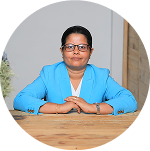
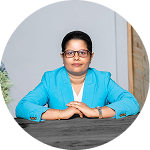
bug fix home page

diff --git a/src/config/images.ts b/src/config/images.ts
@@ -56,13 +56,11 @@ export const chooseClening2: string = "/images/chooseClening/chooseClening2.png"
 export const chooseClening3: string = "/images/chooseClening/chooseClening3.png";
 export const chooseClening4: string = "/images/chooseClening/chooseClening4.png";
 
-//choos our cleaning
-export const teamExperts1: string = "/images/teamExperts/oshan(OM1).png";
-export const teamExperts3: string = "/images/teamExperts/nipuna.png";
-export const teamExperts2: string = "/images/teamExperts/anusha.png";
-export const teamExperts4: string = "/images/teamExperts/chooseClening4.png";
-export const teamExperts5: string = "/images/teamExperts/profile.jpg";
-export const teamExperts6: string = "/images/teamExperts/profile2.png";
+//team expert
+export const oshan: string = "/images/teamExperts/oshan.png";
+export const nipuna: string = "/images/teamExperts/nipuna.png";
+export const anusha: string = "/images/teamExperts/anusha.png";
+export const Shakila: string = "/images/teamExperts/Shakila.png";
 
 
 export const contactImage1: string = "/images/uiContactUs/ContactUs.png";

diff --git a/src/pages/teamOfExpertsPage/teamOfExpertsPage.tsx b/src/pages/teamOfExpertsPage/teamOfExpertsPage.tsx
@@ -1,31 +1,31 @@
 import React from "react";
 import TeamCard from "../../components/teamCard/teamCard";
 const emailIcon = "./images/teamExperts/email_icon.png";
-import { teamExperts6 } from "../../config/images";
+import { oshan, anusha, nipuna, Shakila} from "../../config/images";
 
 const teamMembers = [
   {
     name: "Mr Oshan Bandara",
     title:"Operations Manager",
-    image: teamExperts6,
+    image: oshan,
     email: "oshanhb@pearlyskyplc.com ",
   },
   {
     name: "Mrs Anusha Niroshini",
     title:"Sales Director",
-    image: teamExperts6,
+    image: anusha,
     email: "anushatan@pearlyskyplc.com",
   },
   {
     name: "Mr Nipuna Piyumal",
     title:"Technical Support ",
-    image: teamExperts6,
+    image: nipuna,
     email: "nipunapiyumal@pearlyskyplc.com",
   },
   {
     name: "Mr Shakila Bandara",
     title:"Operations Manager",
-    image: teamExperts6,
+    image: Shakila,
     email: "shakilaib@pearlyskyplc.com",
   },
 ];

diff --git a/src/components/topBar/topBar.tsx b/src/components/topBar/topBar.tsx
@@ -26,7 +26,7 @@ export default function TopBar() {
     { icon: <FaXTwitter />, link: "https://x.com/PEARLYSKYPVTLTD" },
     { icon: <FaYoutube />, link: "https://www.youtube.com/@pearlyskycleaningservice" },
     { icon: <AiFillTikTok />, link: "https://www.tiktok.com/@pearlyskycleaningservice?_t=ZN-8uNBR57FgaU&_r=1" },
-    { icon: <LinkedIn />, link: "https://linkedin.com" }
+    { icon: <LinkedIn />, link: "https://www.linkedin.com/company/pearly-sky-company-private-ltd/" }
   ];
 
   return (
